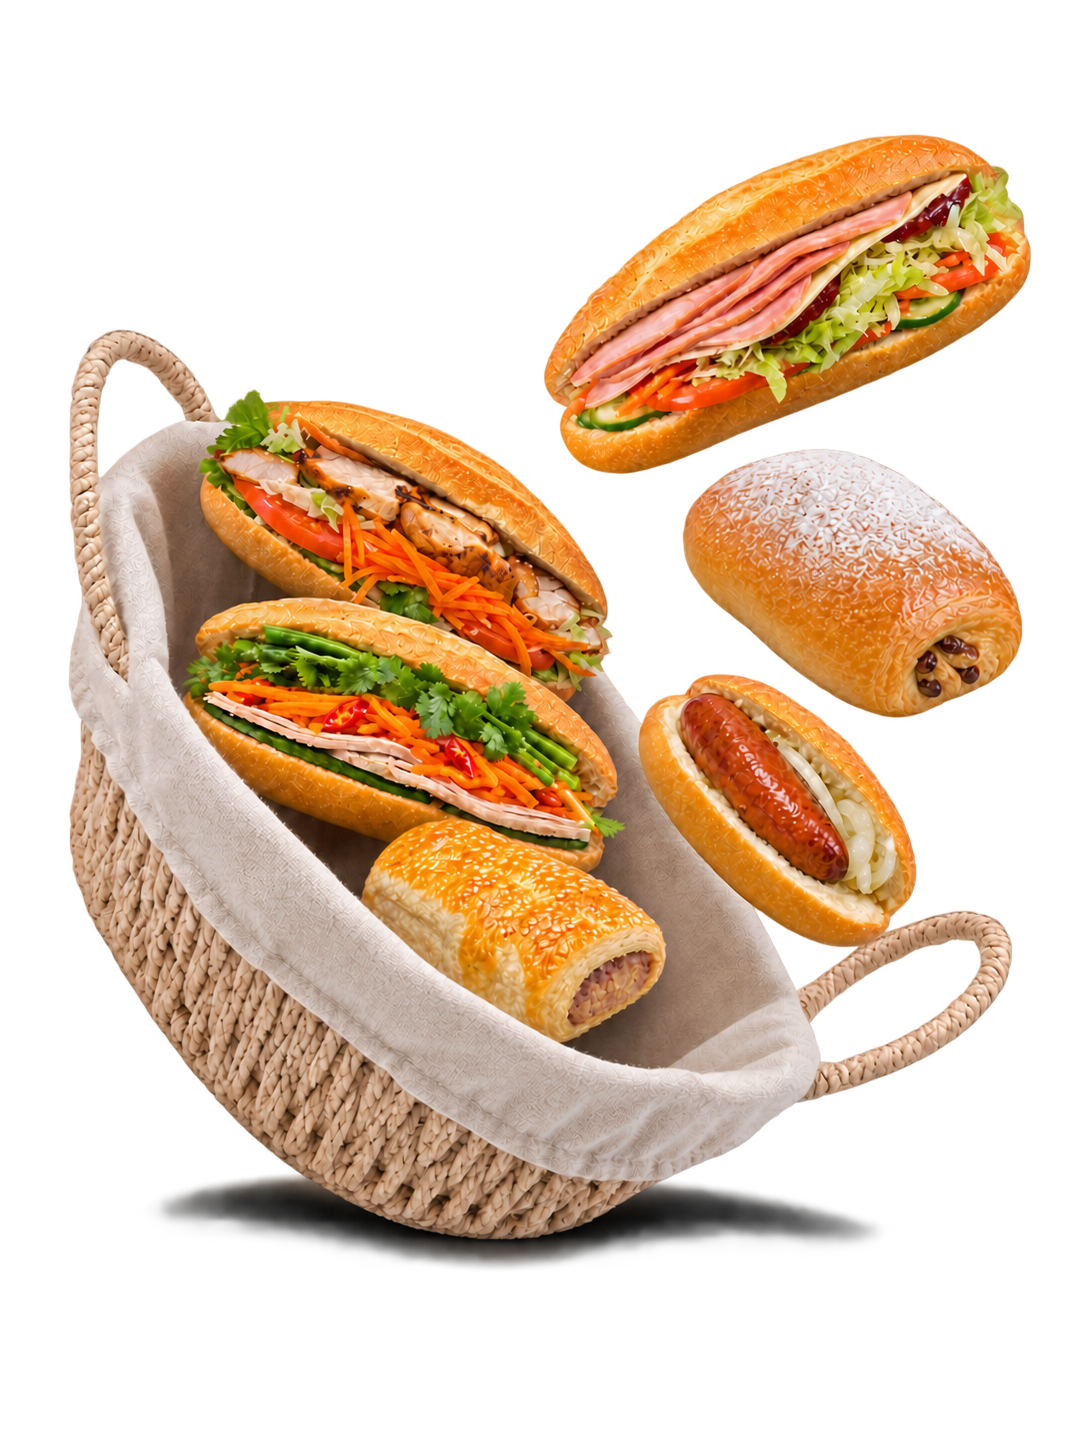
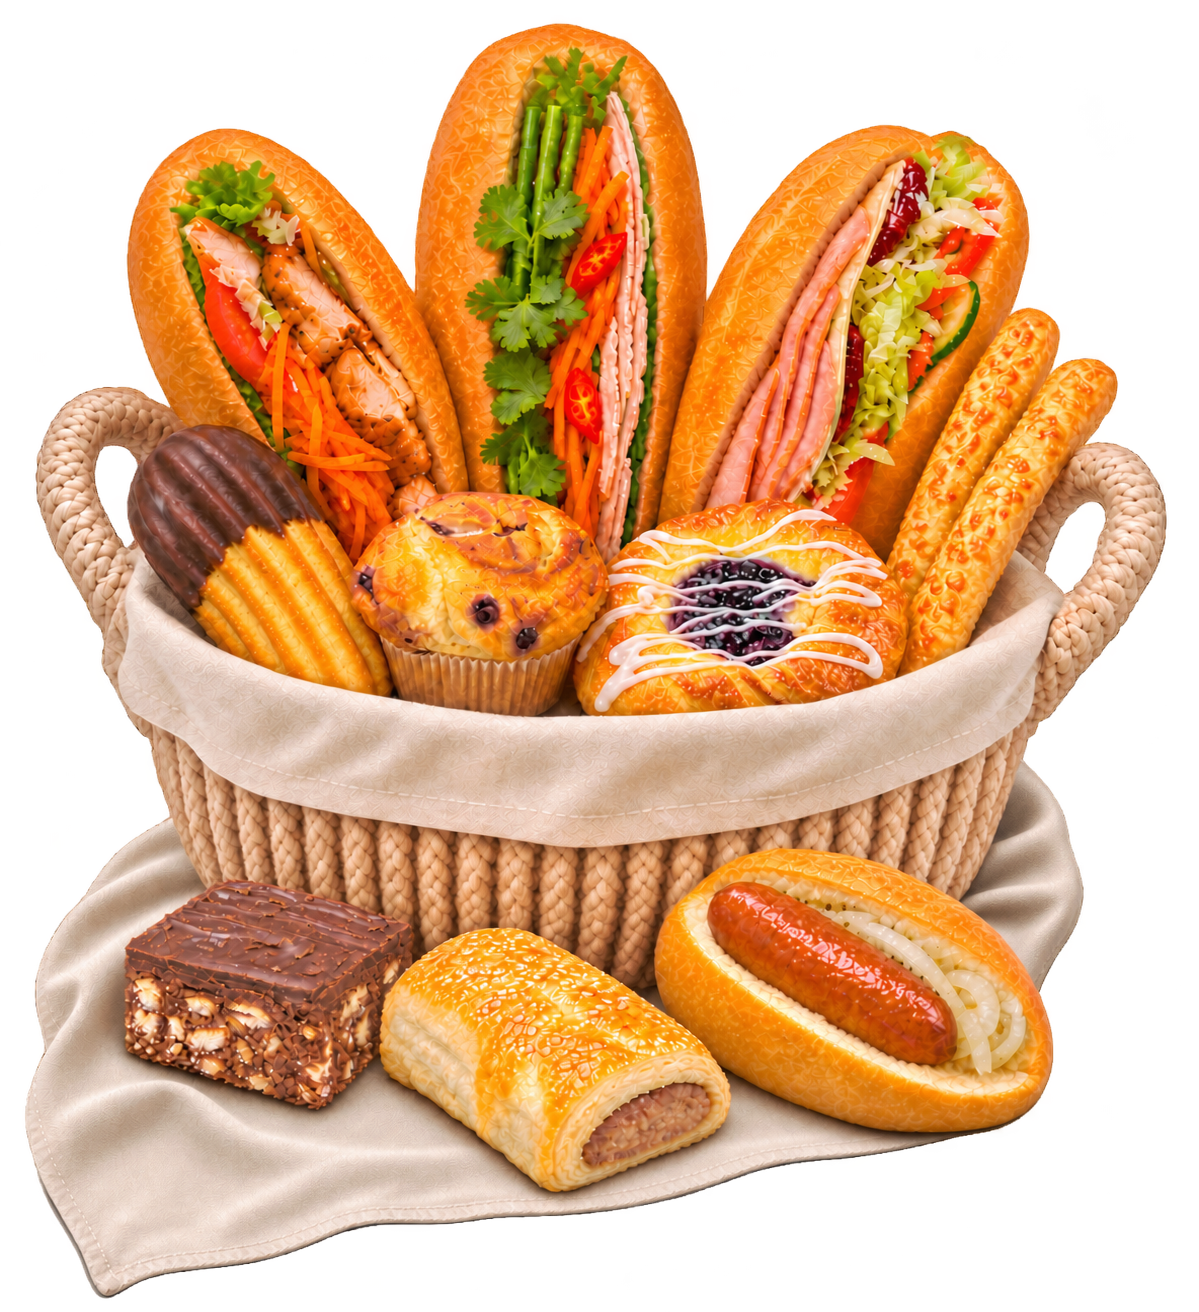
update hero section

diff --git a/Doc/TT Bakehouse/style.css b/Doc/TT Bakehouse/style.css
@@ -182,10 +182,10 @@ footer small{font-size:13px}
 .header{height:clamp(58px,5vw,90px)}
 .header .logo{width:clamp(82px,8vw,132px);height:clamp(82px,8vw,132px);padding:clamp(20px,2.4vw,36px) 16px 12px}
 .hero{height:clamp(445px,calc(100svh - clamp(58px,5vw,90px)),850px);min-height:0;max-height:none;background:#a9dcf4 url('Background.png') center center/cover no-repeat}
-.hero-copy{position:absolute;z-index:2;top:13%;left:7%;padding:0;text-align:left;pointer-events:none}
-.hero-copy h1{font-size:clamp(56px,8.5vw,112px);line-height:1.06}
-.hero-copy p{margin:8px 0 0;font-size:clamp(21px,2.8vw,40px);letter-spacing:-.025em;text-shadow:0 3px 4px #53332233}
-.hero-product{z-index:1;width:auto;height:88%;max-width:none;right:7%;top:9%;filter:none;object-fit:contain}
+.hero-copy{position:absolute;z-index:1;top:13%;left:7%;padding:0;text-align:left;pointer-events:none}
+.hero-copy h1{font-size:clamp(50px,7.5vw,100px);line-height:1.06;color:#fff4e6}
+.hero-copy p{margin:8px 0 0;font-size:clamp(19px,2.5vw,36px);letter-spacing:-.025em;color:#fff4e6;text-shadow:0 3px 4px #53332233}
+.hero-product{z-index:2;width:auto;height:88%;max-width:none;right:7%;top:9%;filter:none;object-fit:contain}
 .hero-bottom{position:absolute;z-index:2;left:7%;bottom:calc(12% + clamp(16px,1.45vw,28px));color:white}
 .hero-bottom p{margin:0;font-size:clamp(13px,1.4vw,19px);font-weight:700;line-height:1.55;text-shadow:0 2px 4px #24430d80}
 .hero-bottom .hero-cta{margin-top:16px;padding:8px 16px;background:#fff9f2;color:#ad4026;font-size:clamp(10px,.9vw,14px);font-weight:500;gap:15px;box-shadow:0 3px 8px #24430d22}
@@ -195,8 +195,8 @@ footer small{font-size:13px}
  .header .logo{width:88px;height:88px;padding:22px 16px 10px}
  .hero{height:clamp(570px,100svh - 68px,760px);background-position:48% center}
  .hero-copy{top:9%;left:4%;right:4%;text-align:center}
- .hero-copy h1{font-size:clamp(42px,13.7vw,64px);white-space:normal}
- .hero-copy p{font-size:clamp(16px,4.2vw,23px)}
+ .hero-copy h1{font-size:clamp(40px,12.2vw,58px);white-space:normal}
+ .hero-copy p{font-size:clamp(15px,3.8vw,21px)}
  .hero-product{height:59%;top:25%;left:50%;right:auto;transform:translateX(-50%)}
  .hero-bottom{display:none}
  .hero-bottom p{font-size:clamp(12px,2.7vw,15px)}
@@ -210,7 +210,7 @@ footer small{font-size:13px}
  .hero{--content-edge:max(7%,calc((100% - 1180px)/2))}
  .hero-copy,.hero-bottom{left:var(--content-edge)}
  .hero-product{right:var(--content-edge)}
- .hero-copy h1{font-size:clamp(80px,5.5vw,104px)}
+ .hero-copy h1{font-size:clamp(72px,4.8vw,92px)}
 }
 
 /* One menu with category filters and bakery artwork. */
@@ -218,27 +218,35 @@ footer small{font-size:13px}
 .menu-section h2{font-size:clamp(56px,7vw,96px);line-height:1.05;text-shadow:0 5px 3px #ad402626}
 .menu-intro{margin:12px 0 0;color:#9b4939;font-size:clamp(16px,1.5vw,21px)}
 .menu-filters{display:flex;justify-content:center;flex-wrap:wrap;gap:clamp(14px,3vw,40px);margin:36px auto 54px}
-.menu-filters button{padding:8px 2px;border:0;border-bottom:2px solid transparent;background:none;color:#812b18;font:700 14px 'DM Sans',sans-serif;letter-spacing:.04em;cursor:pointer}
-.menu-filters button:hover,.menu-filters button[aria-pressed="true"]{color:#ad4026;border-bottom-color:#ad4026}
+.menu-filters button{padding:9px 16px;border:0;border-radius:999px;background:transparent;color:#812b18;font:700 14px 'DM Sans',sans-serif;letter-spacing:.04em;cursor:pointer}
+.menu-filters button:hover{background:#fbe3d9;color:#ad4026}
+.menu-filters button[aria-pressed="true"],.menu-filters button[aria-pressed="true"]:hover{background:#ad4026;color:#fff9f2}
 .menu-filters button:focus-visible{outline:2px solid #ad4026;outline-offset:4px}
 .menu-section .search-status{padding:0 0 30px;color:#812b18;font-size:16px}
-.menu-grid{display:grid;grid-template-columns:repeat(4,minmax(0,1fr));gap:28px;max-width:1180px;margin:0 auto}
-.menu-card{display:flex;flex-direction:column;align-items:center;min-width:0;min-height:350px;padding:28px 18px 26px;border:1px solid #ad40261a;border-radius:140px;background:#f8e8dc;text-align:center}
-.menu-card:nth-child(4n+2){background:#f2dccb}
-.menu-card:nth-child(4n+3){background:#e9cfb6}
-.menu-card:nth-child(4n+4){background:#f5e5d6}
-.menu-card-image{display:grid;place-items:center;width:100%;height:170px;margin:12px 0 28px}
-.menu-card-image img{display:block;width:100%;height:100%;object-fit:contain}
+.menu-grid{display:grid;grid-template-columns:repeat(3,minmax(0,1fr));gap:28px;max-width:1180px;margin:0 auto}
+.menu-card{display:flex;flex-direction:column;align-items:center;min-width:0;min-height:350px;padding:28px 18px 26px;border:1px solid #ad40261a;border-radius:20px;background:#f8e8dc;text-align:center}
+.menu-card[data-category="rolls"]{background:#fbe3d9}
+.menu-card[data-category="savoury"]{background:#eaf3e3}
+.menu-card[data-category="sweet"]{background:#fbe6ea}
+.menu-card-image{display:flex;flex:none;align-items:center;justify-content:center;width:100%;height:170px;margin:12px 0 28px;overflow:hidden}
+.menu-card-image img{display:block;min-width:0;min-height:0;width:100%;height:100%;object-fit:contain}
 .menu-card[data-category="savoury"] .menu-card-image img{width:78%;height:78%}
 .menu-card[data-category="sweet"] .menu-card-image img{width:72%;height:72%}
-.menu-card h3{margin:0;color:#812b18;font-family:'TT Bakehouse',sans-serif;font-size:clamp(22px,2.2vw,30px);font-weight:400;line-height:1.08}
-.menu-card-price{margin-top:auto;padding-top:12px;color:#ad4026;font-size:20px;line-height:1.2}
-@media(max-width:900px){.menu-grid{grid-template-columns:repeat(3,minmax(0,1fr));gap:20px}}
-@media(max-width:750px){.menu-section{padding:70px 5% 85px;scroll-margin-top:90px}.menu-section h2{font-size:clamp(52px,10vw,72px)}.menu-filters{gap:16px;margin:28px auto 36px}.menu-filters button{font-size:12px}.menu-grid{grid-template-columns:repeat(2,minmax(0,1fr));gap:14px}.menu-card{min-height:290px;padding:20px 12px 22px}.menu-card-image{height:130px;margin:8px 0 24px}.menu-card h3{font-size:clamp(20px,4.5vw,26px)}.menu-card-price{font-size:17px}}
+.menu-card h3{width:100%;min-height:2.16em;margin:0;color:#812b18;font-family:'TT Bakehouse',sans-serif;font-size:clamp(22px,2.2vw,30px);font-weight:400;line-height:1.08;overflow-wrap:anywhere}
+.menu-card-price{margin-top:auto;padding-top:12px;color:#ad4026;font-size:23px;line-height:1.2}
+@media(max-width:900px){.menu-grid{grid-template-columns:repeat(2,minmax(0,1fr));gap:20px}}
+@media(max-width:750px){.menu-section{padding:70px 5% 85px;scroll-margin-top:90px}.menu-section h2{font-size:clamp(52px,10vw,72px)}.menu-filters{gap:16px;margin:28px auto 36px}.menu-filters button{font-size:12px}.menu-grid{grid-template-columns:repeat(2,minmax(0,1fr));gap:14px}.menu-card{min-height:290px;padding:20px 12px 22px}.menu-card-image{height:130px;margin:8px 0 24px}.menu-card h3{font-size:clamp(20px,4.5vw,26px)}.menu-card-price{font-size:19px}}
 @media(max-width:360px){.menu-card{min-height:260px;padding:18px 9px}.menu-card-image{height:112px;margin-bottom:18px}.menu-filters{gap:11px}}
+.menu-pagination{display:flex;justify-content:center;align-items:center;flex-wrap:wrap;gap:9px;margin:42px auto 0}
+.menu-pagination button{min-width:38px;height:38px;padding:0 11px;border:1px solid #ad4026;border-radius:999px;background:#fff9f2;color:#ad4026;font:700 14px 'DM Sans',sans-serif;cursor:pointer}
+.menu-pagination button:hover,.menu-pagination button[aria-current="page"]{background:#ad4026;color:#fff9f2}
+.menu-pagination button:disabled{opacity:.4;cursor:default}
+.menu-pagination button:disabled:hover{background:#fff9f2;color:#ad4026}
+.menu-pagination button:focus-visible{outline:2px solid #812b18;outline-offset:3px}
 
 /* About section uses the existing bakery product cutout and brand palette. */
 .about-section{position:relative;min-height:clamp(720px,55vw,980px);overflow:hidden;background:#ad4026;color:#fff9f2}
+.about-section::after{content:"";position:absolute;z-index:3;right:0;bottom:0;left:0;height:2px;background:#fff9f2}
 #about{scroll-margin-top:clamp(58px,5vw,90px)}
 .about-wave{position:absolute;z-index:0;right:0;bottom:0;left:0;width:100%;height:34%}
 .about-content{position:relative;z-index:2;max-width:1600px;margin:0 auto;padding:clamp(80px,7vw,130px) 8% 0}
@@ -260,8 +268,8 @@ footer small{font-size:13px}
 .contact-section h2{margin:0;color:#ad4026;font-family:'TT Bakehouse',sans-serif;font-size:clamp(64px,7vw,100px);font-weight:400;line-height:1;text-shadow:0 5px 3px #ad402626}
 .contact-intro{margin:12px 0 0;color:#ad4026;font-size:clamp(17px,1.5vw,22px)}
 .contact-options{display:grid;grid-template-columns:repeat(2,minmax(0,1fr));gap:36px;max-width:1020px;margin:80px auto 0}
-.contact-option{display:flex;flex-direction:column;align-items:center;min-height:260px;padding:36px 28px;color:#812b18}
-.contact-option:hover{color:#ad4026}
+.contact-option{display:flex;flex-direction:column;align-items:center;min-height:260px;padding:36px 28px;border-radius:20px;color:#812b18;transition:background .2s ease}
+.contact-option:hover{background:#fbe3d9;color:#ad4026}
 .contact-option:focus-visible{outline:3px solid #ad4026;outline-offset:5px}
 .contact-option svg{width:62px;height:62px;color:#ad4026}
 .contact-option h3{margin:24px 0 14px;color:#ad4026;font-size:clamp(25px,2.5vw,36px);line-height:1.1}
@@ -279,3 +287,22 @@ footer small{font-size:13px}
 .hero-bottom .hero-cta:hover,.about-cta:hover{background:#f8e8dc;color:#ad4026;transform:translateY(-2px)}
 @media(prefers-reduced-motion:reduce){.hero-bottom .hero-cta,.about-cta{transition:none}}
 .contact-option address,.contact-option p{font-family:'DM Sans',sans-serif;font-size:clamp(17px,1.4vw,20px);font-weight:500;line-height:1.45}
+
+/* Shared type scale for the current page. */
+:root{--type-small:14px;--type-button:16px;--type-body:18px;--type-medium:24px;--type-large:32px;--type-mobile-heading:48px;--type-heading:72px;--type-hero:96px}
+body{font-size:var(--type-body)}
+.header-links a,.header.menu-open .header-links a,.menu-link,.menu-dropdown-toggle,.menu-dropdown a{font-size:var(--type-small)}
+.header .header-search input{font-size:var(--type-button)}
+.hero-copy h1{font-size:var(--type-hero)}
+.hero-copy p{font-size:var(--type-large)}
+.hero-bottom p,.about-content p,.menu-intro,.contact-intro,.contact-option address,.contact-option p{font-size:var(--type-body)}
+.hero-bottom .hero-cta,.about-cta{font-size:var(--type-button)}
+.hero-bottom .hero-cta span,.about-cta span{font-size:var(--type-medium)}
+.menu-section h2,.about-content h2,.contact-section h2{font-size:var(--type-heading)}
+.menu-filters button,.menu-pagination button,footer small{font-size:var(--type-small)}
+.menu-section .search-status{font-size:var(--type-button)}
+.menu-card h3,.contact-option h3{font-size:var(--type-large)}
+.menu-card-price{font-size:var(--type-medium)}
+@media(min-width:751px) and (max-width:1100px){.hero-copy h1{font-size:var(--type-heading)}.hero-copy p{font-size:var(--type-medium)}}
+@media(max-width:750px){.hero-copy h1,.menu-section h2,.about-content h2,.contact-section h2{font-size:var(--type-mobile-heading)}.hero-copy p{font-size:var(--type-body)}.menu-card h3,.contact-option h3{font-size:var(--type-medium)}}
+@media(max-width:750px){.menu-filters{gap:8px}.menu-filters button{padding:8px 9px}}

diff --git a/Doc/TT Bakehouse/script.js b/Doc/TT Bakehouse/script.js
@@ -133,12 +133,16 @@ document.addEventListener('click', event => {
 });
 const searchStatus = document.querySelector('#search-status');
 const menuCards = [...menuGrid.querySelectorAll('.menu-card')];
+const menuPagination = document.querySelector('#menu-pagination');
 const categoryButtons = [...document.querySelectorAll('.menu-filters button')];
 const normalizeSearch = value => value.normalize('NFD').replace(/[\u0300-\u036f]/g, '').toLowerCase();
 let activeCategory = 'all';
+let activePage = 1;
+const itemsPerPage = 6;
 
 function setCategory(category, clearSearch = true) {
  activeCategory = category;
+ activePage = 1;
  if (clearSearch) searchInput.value = '';
  categoryButtons.forEach(button => button.setAttribute('aria-pressed', String(button.dataset.category === category)));
  filterMenu();
@@ -151,19 +155,36 @@ document.querySelector('.menu-filters').addEventListener('click', event => {
 function filterMenu() {
  const query = searchInput.value.trim();
  const terms = normalizeSearch(query).split(/\s+/).filter(Boolean);
- let total = 0;
- menuCards.forEach(card => {
+ const matchingCards = menuCards.filter(card => {
   const matchesCategory = activeCategory === 'all' || card.dataset.category === activeCategory;
   const text = normalizeSearch(`${card.dataset.category} ${card.dataset.search}`);
-  const matches = matchesCategory && terms.every(term => text.includes(term));
-  card.hidden = !matches;
-  if (matches) total++;
+  return matchesCategory && terms.every(term => text.includes(term));
  });
+ const total = matchingCards.length;
+ const pageCount = Math.ceil(total / itemsPerPage);
+ activePage = Math.min(activePage, Math.max(1, pageCount));
+ const visibleCards = new Set(matchingCards.slice((activePage - 1) * itemsPerPage, activePage * itemsPerPage));
+ menuCards.forEach(card => { card.hidden = !visibleCards.has(card); });
+ menuPagination.hidden = pageCount <= 1;
+ menuPagination.innerHTML = pageCount <= 1 ? '' : `
+  <button type="button" data-page="${activePage - 1}" aria-label="Previous page" ${activePage === 1 ? 'disabled' : ''}>&larr;</button>
+  ${Array.from({ length: pageCount }, (_, index) => `<button type="button" data-page="${index + 1}" aria-label="Page ${index + 1}" ${activePage === index + 1 ? 'aria-current="page"' : ''}>${index + 1}</button>`).join('')}
+  <button type="button" data-page="${activePage + 1}" aria-label="Next page" ${activePage === pageCount ? 'disabled' : ''}>&rarr;</button>`;
  searchStatus.hidden = !query;
  searchStatus.textContent = query
   ? (total ? `${total} menu item${total === 1 ? '' : 's'} found for “${query}”.` : `No menu items found for “${query}”. Try another search.`)
   : '';
 }
+
+menuPagination.addEventListener('click', event => {
+ const button = event.target.closest('button[data-page]');
+ if (!button || button.disabled) return;
+ activePage = Number(button.dataset.page);
+ filterMenu();
+ document.querySelector('#menu').scrollIntoView({ behavior: window.matchMedia('(prefers-reduced-motion: reduce)').matches ? 'auto' : 'smooth', block: 'start' });
+});
+
+filterMenu();
 
 searchInput.addEventListener('input', () => setCategory('all', false));
 searchForm.addEventListener('submit', event => {

diff --git a/Doc/TT Bakehouse/index.html b/Doc/TT Bakehouse/index.html
@@ -16,6 +16,7 @@
 <div class="menu-filters" role="group" aria-label="Filter menu by category"><button type="button" data-category="all" aria-pressed="true">ALL</button><button type="button" data-category="rolls" aria-pressed="false">ROLLS</button><button type="button" data-category="savoury" aria-pressed="false">SAVOURY</button><button type="button" data-category="sweet" aria-pressed="false">SWEET</button></div>
 <p class="search-status" id="search-status" role="status" aria-live="polite" aria-atomic="true" hidden></p>
 <div class="menu-grid" id="menu-grid"></div>
+<nav class="menu-pagination" id="menu-pagination" aria-label="Menu pages" hidden></nav>
 </section>
 <section class="about-section" id="about" aria-labelledby="about-heading">
 <svg class="about-wave" viewBox="0 0 1440 320" preserveAspectRatio="none" aria-hidden="true"><defs><linearGradient id="about-wave-fill" x1="0" x2="0" y1="0" y2="1"><stop offset="0" stop-color="#e2bd9c"/><stop offset="1" stop-color="#fff9f2"/></linearGradient></defs><path d="M0 76 C300 24 560 42 820 90 S1190 168 1440 76 L1440 320 H0Z" fill="url(#about-wave-fill)"/></svg>
